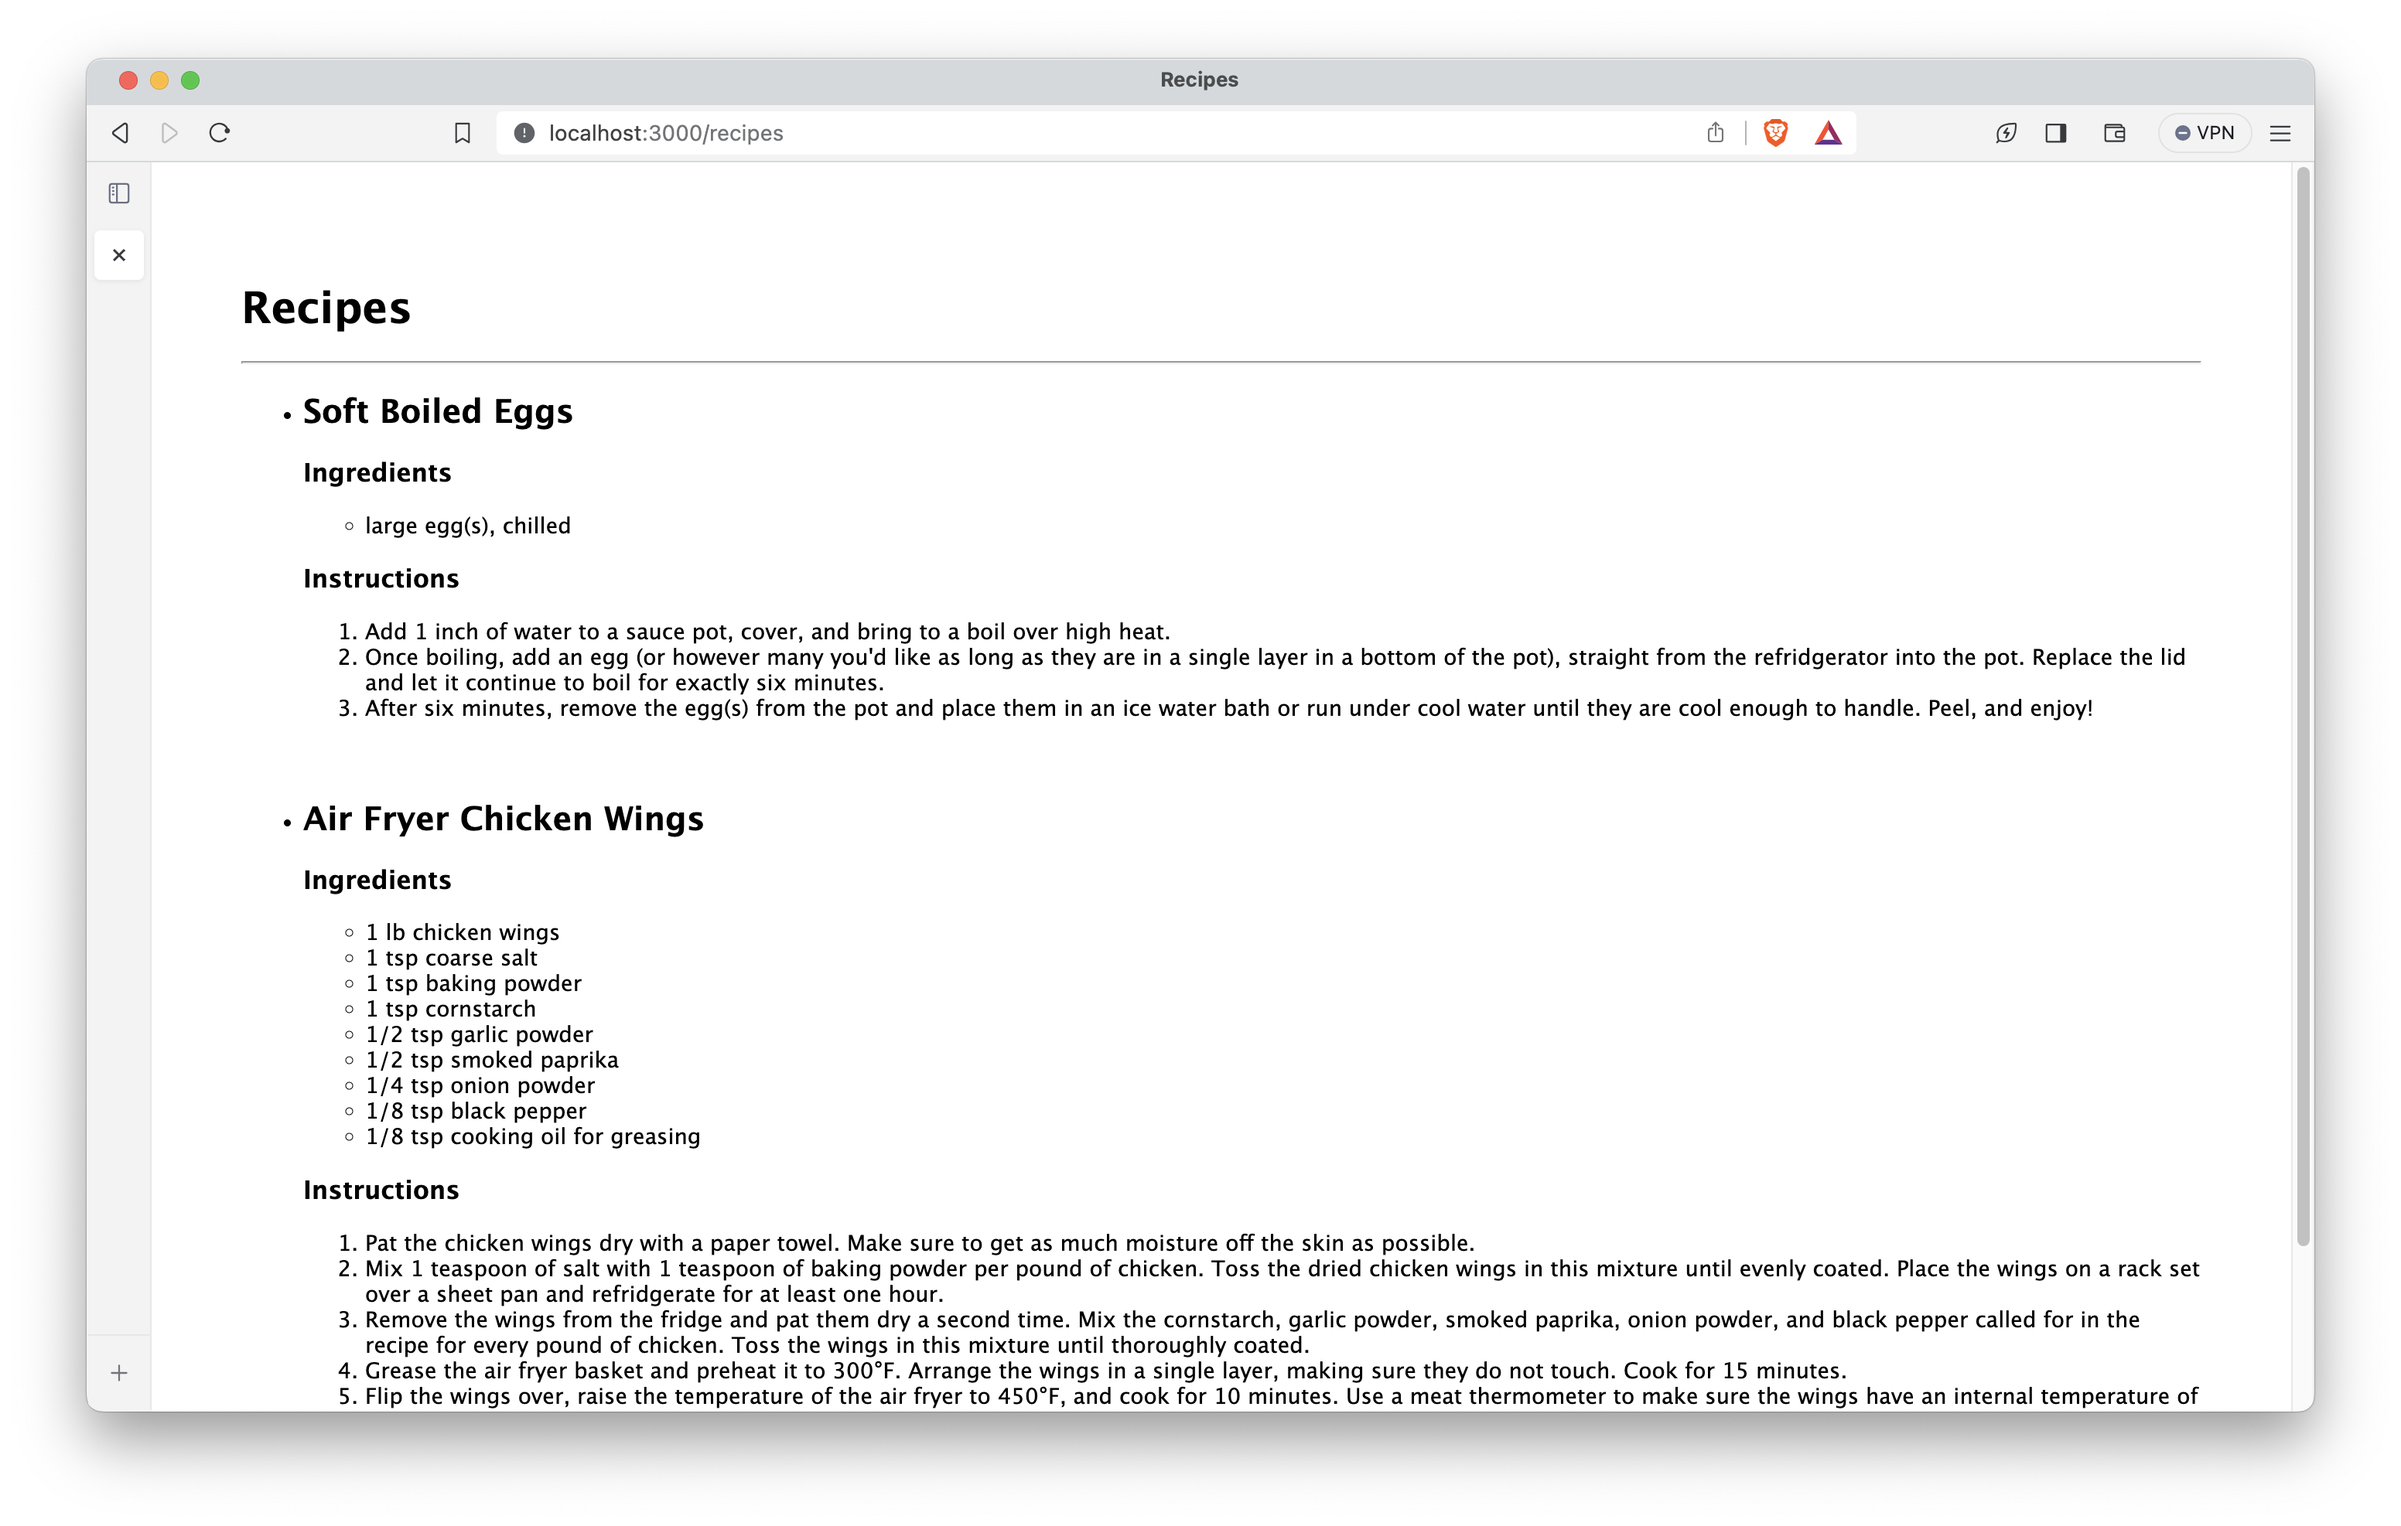
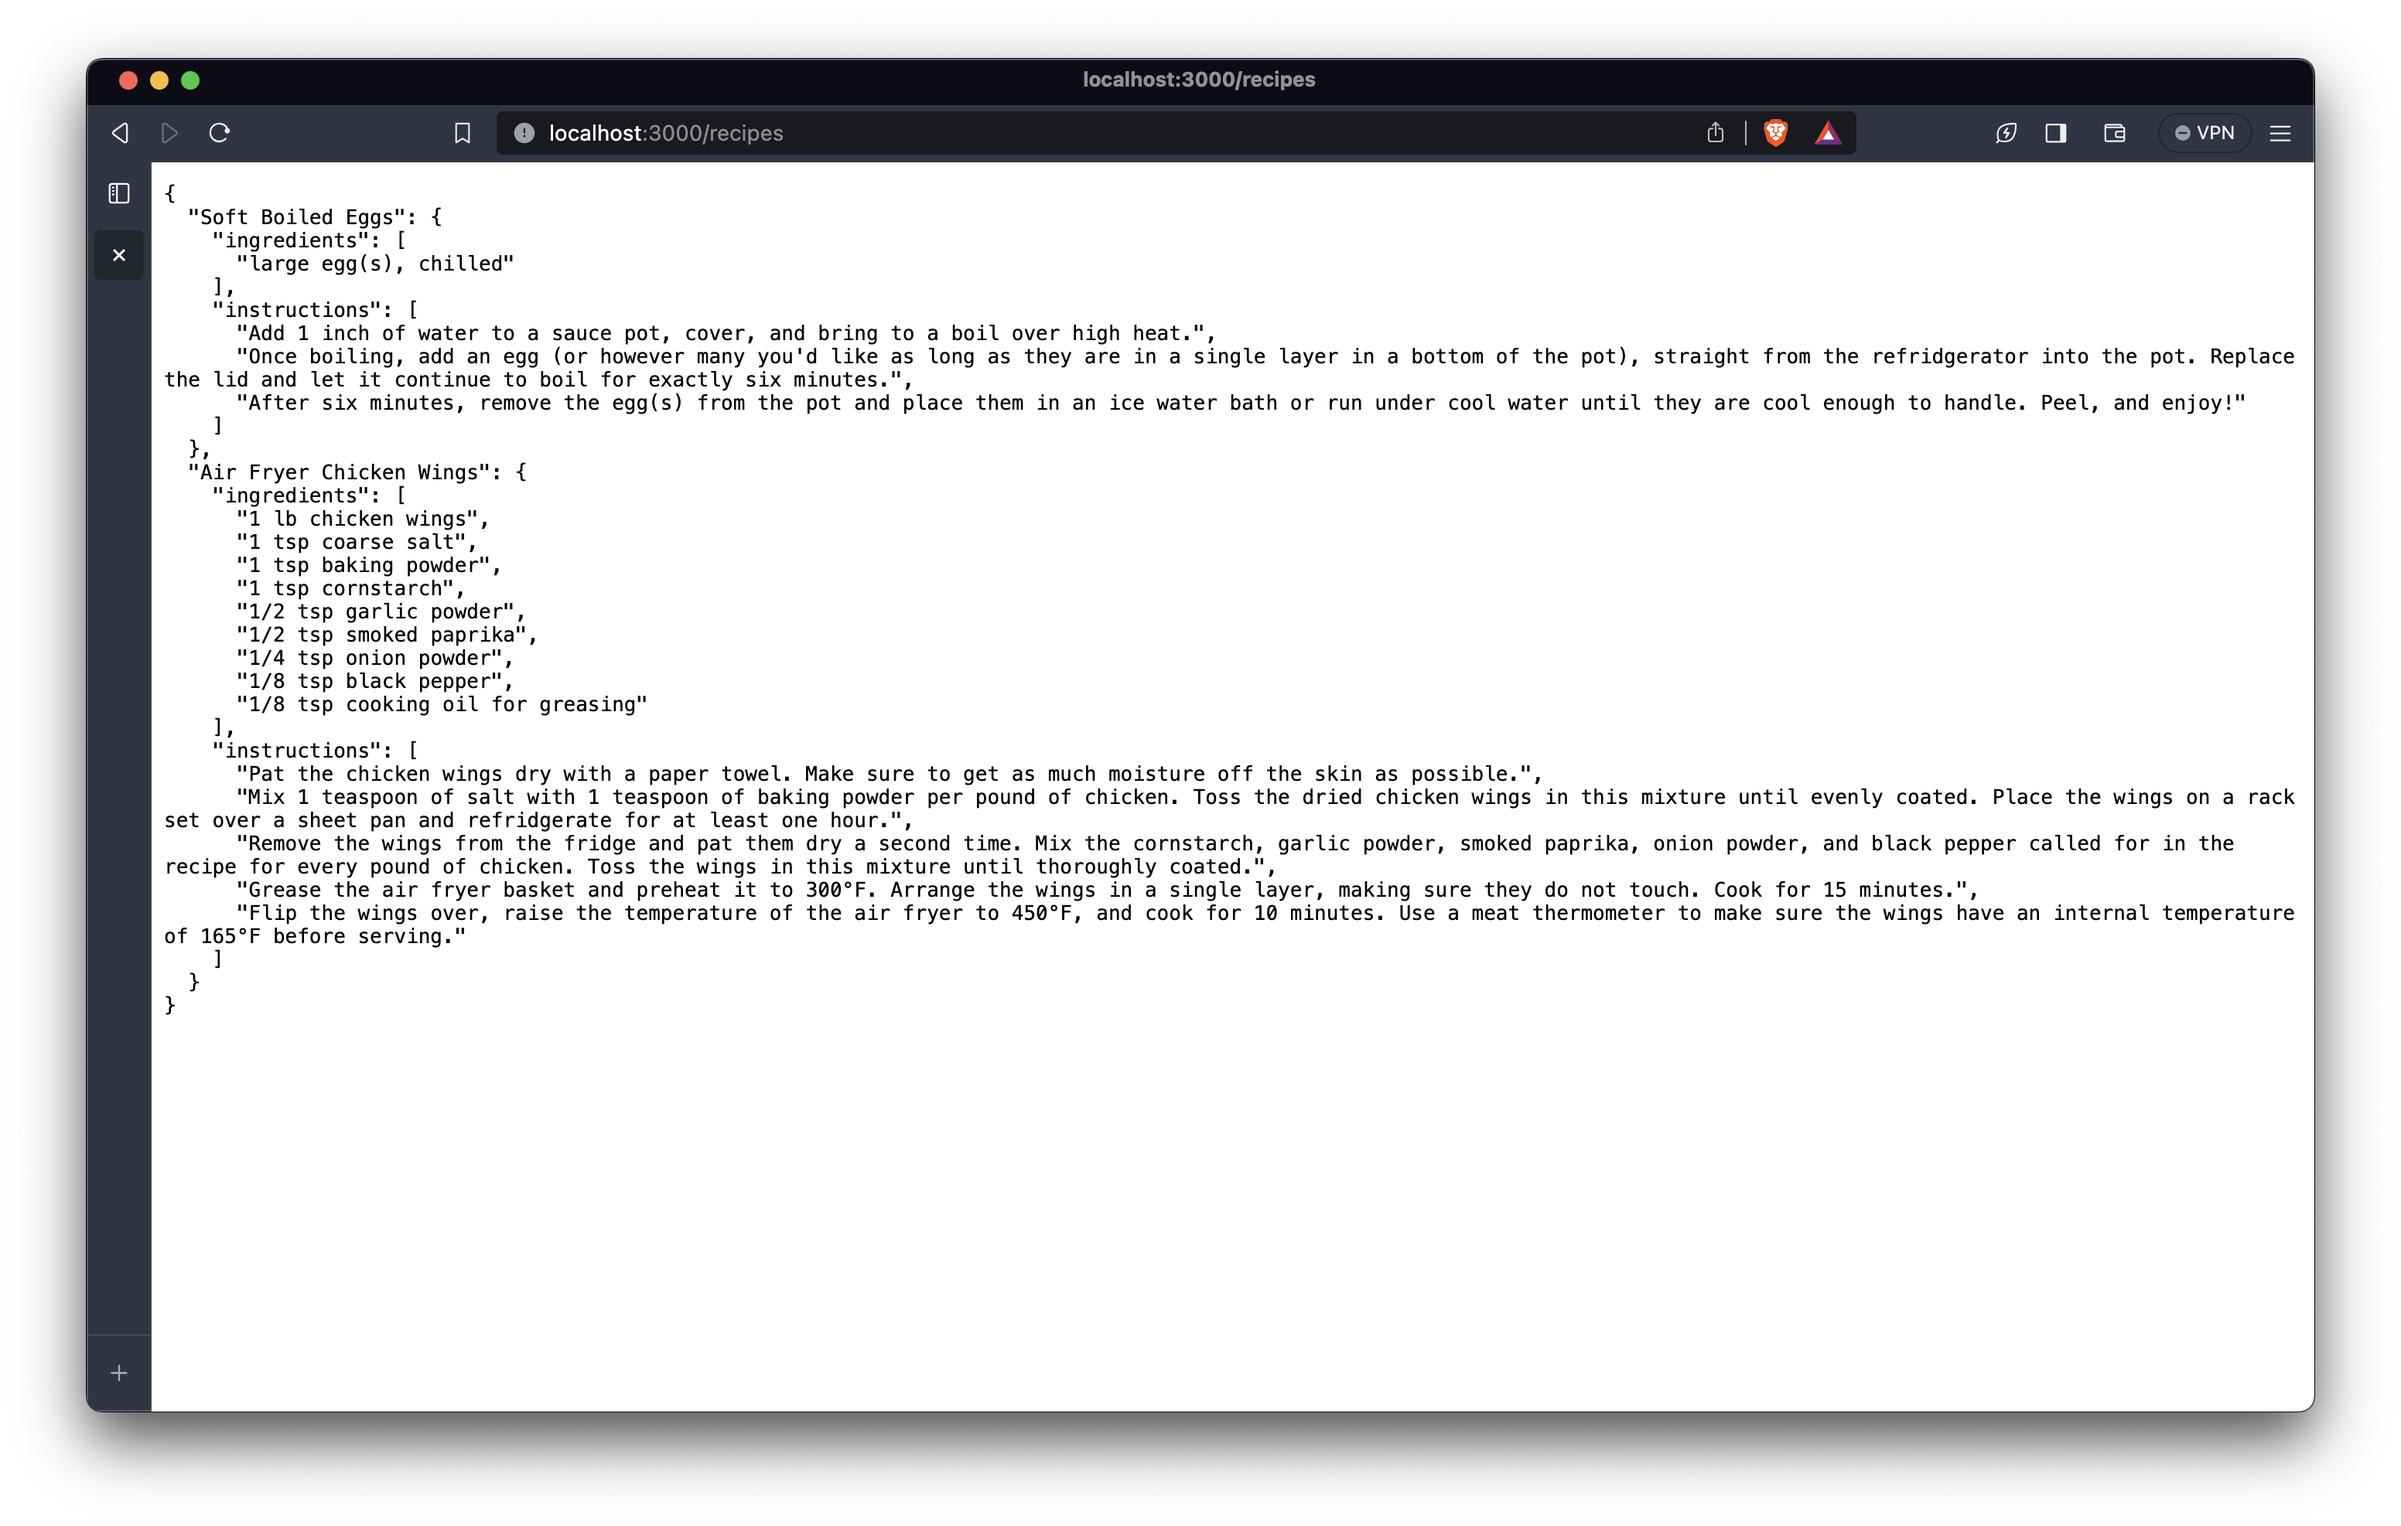
feat: display the recipe data in JSON format

diff --git a/routes/recipes.js b/routes/recipes.js
@@ -4,36 +4,37 @@ const db = require('../db');
 
 /* GET recipes listing. */
 router.get('/', (req, res, next) => {
-    db.all('SELECT * FROM recipe', (err, rows) => {
+  db.all('SELECT * FROM recipe', (err, rows) => {
+    if (err) {
+      console.error(err.message);
+      return;
+    }
+    req.recipes = rows;
+
+    db.all('SELECT * FROM ingredient', (err, rows) => {
+      if (err) {
+        console.error(err.message);
+        return;
+      }
+      req.ingredients = rows;
+
+      db.all('SELECT * FROM instruction', (err, rows) => {
         if (err) {
             console.error(err.message);
             return;
         }
-        req.recipes = rows;
+        req.instructions = rows;
 
-        db.all('SELECT * FROM ingredient', (err, rows) => {
-            if (err) {
-                console.error(err.message);
-                return;
-            }
-            req.ingredients = rows;
-
-            db.all('SELECT * FROM instruction', (err, rows) => {
-                if (err) {
-                    console.error(err.message);
-                    return;
-                }
-                req.instructions = rows;
-
-                let data = {};
-                req.recipes.forEach(recipe => data[recipe.name] = { ingredients: [], instructions: [] });
-                req.ingredients.forEach(ingredient => data[ingredient.recipe_name].ingredients.push(ingredient.ingredient_description));
-                req.instructions.forEach(instruction => data[instruction.recipe_name].instructions.push(instruction.instruction_description));
-                
-                res.render('recipes', { title: 'Recipes', recipes: data });
-            });
-        });
+        let data = {};
+        req.recipes.forEach(recipe => data[recipe.name] = { ingredients: [], instructions: [] });
+        req.ingredients.forEach(ingredient => data[ingredient.recipe_name].ingredients.push(ingredient.ingredient_description));
+        req.instructions.forEach(instruction => data[instruction.recipe_name].instructions.push(instruction.instruction_description));
+        
+        res.header("Content-Type", 'application/json');
+        res.send(JSON.stringify(data, null, 2));
+      });
     });
+  });
 });
 
 module.exports = router;
